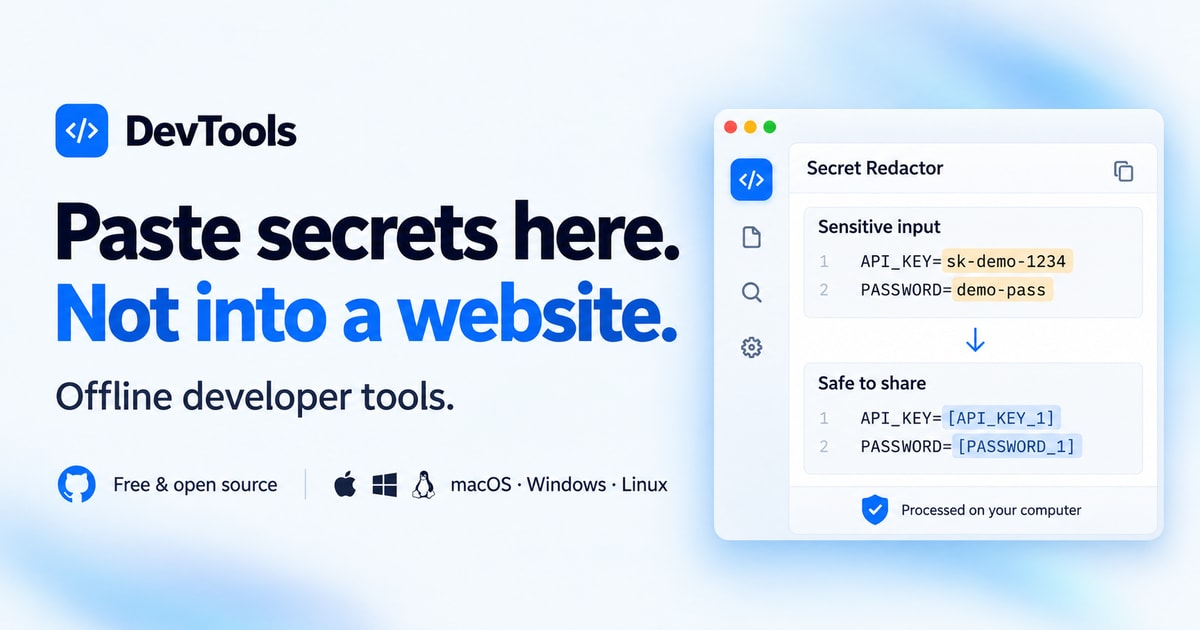
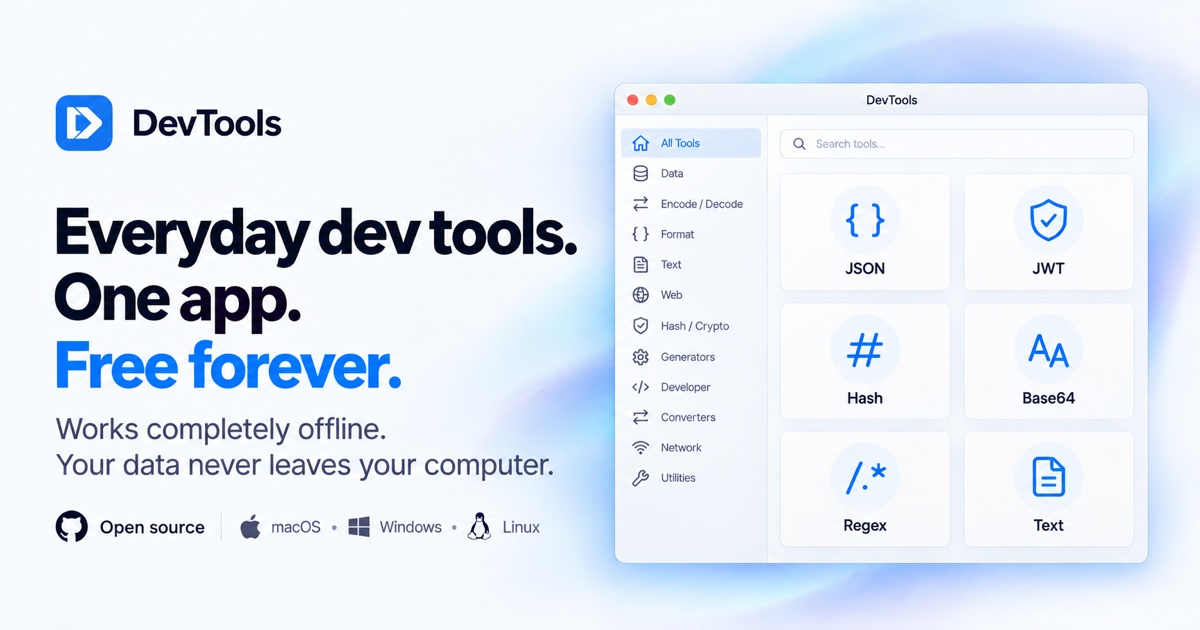
docs: update README social preview image

diff --git a/README.md b/README.md
@@ -2,7 +2,7 @@
 
 A desktop workspace with 52 developer utilities for macOS, Windows, and Linux. Format JSON, inspect tokens and certificates, convert data, generate code, and prepare text and images for AI workflows with local processing.
 
-![DevTools — offline developer tools for macOS, Windows, and Linux. Redact secrets locally before sharing.](assets/readme-banner.jpg)
+![DevTools — everyday developer tools in one free, offline app for macOS, Windows, and Linux. Your data never leaves your computer.](assets/readme-banner.jpg)
 
 [Download](#download) · [Tools](#tools) · [Workspace and shortcuts](#workspace-and-shortcuts) · [Development](#development)
 
